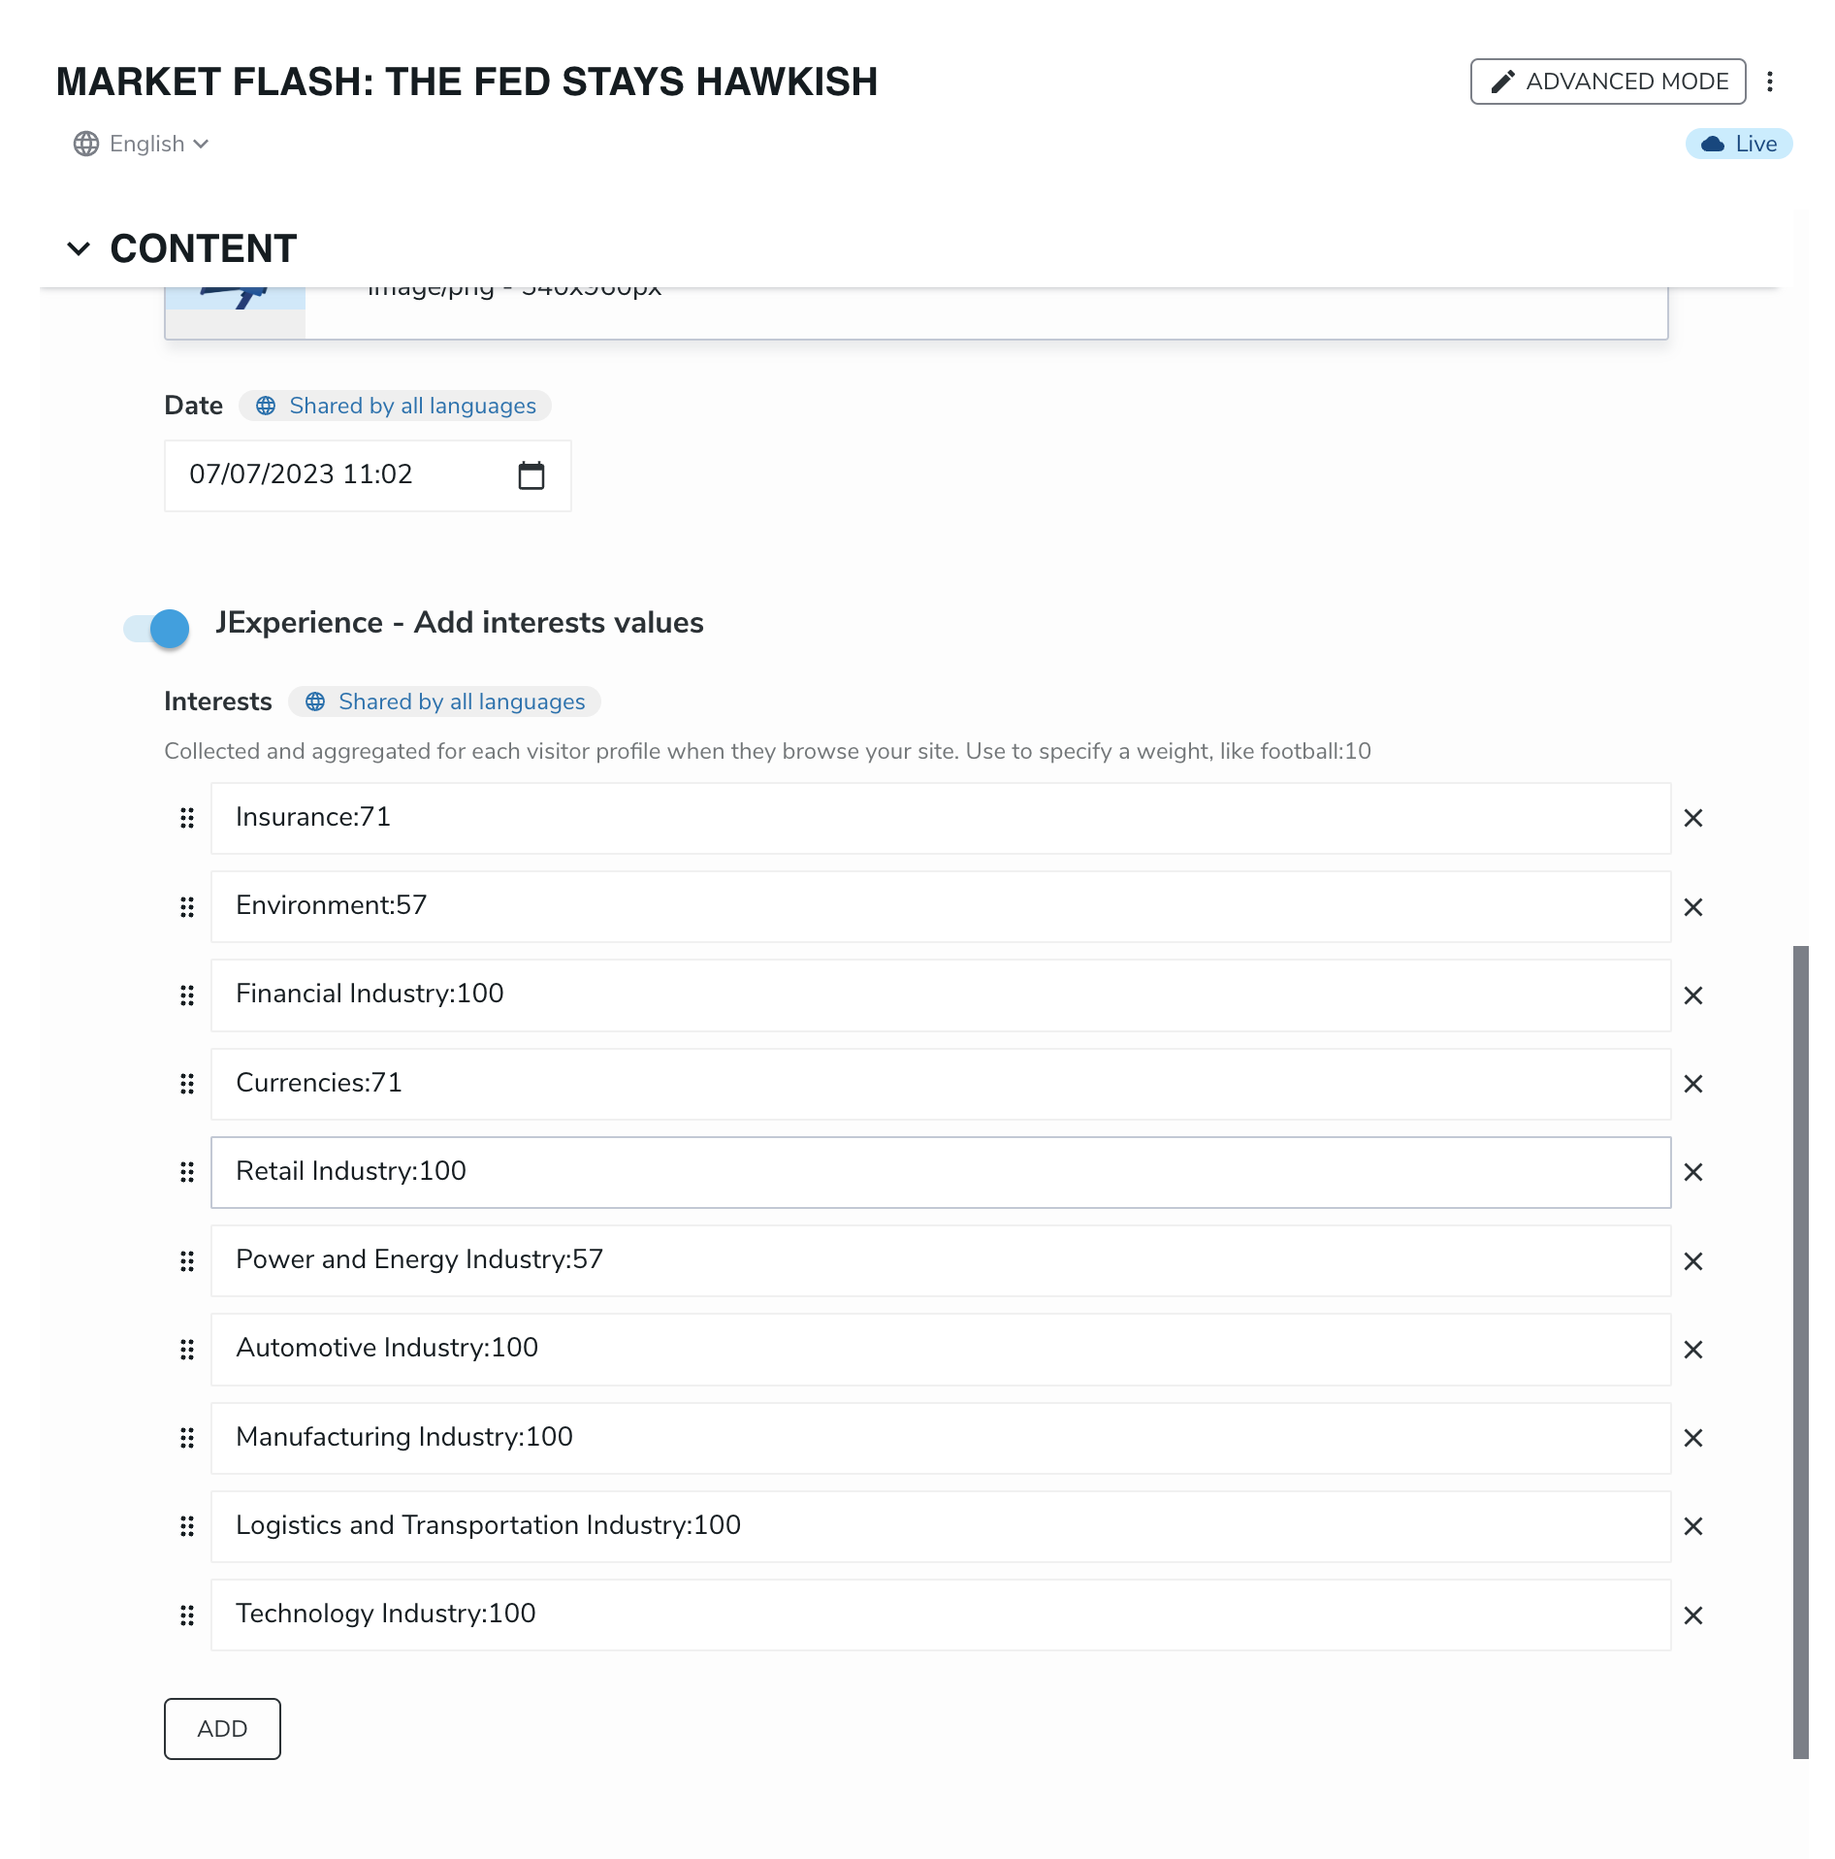
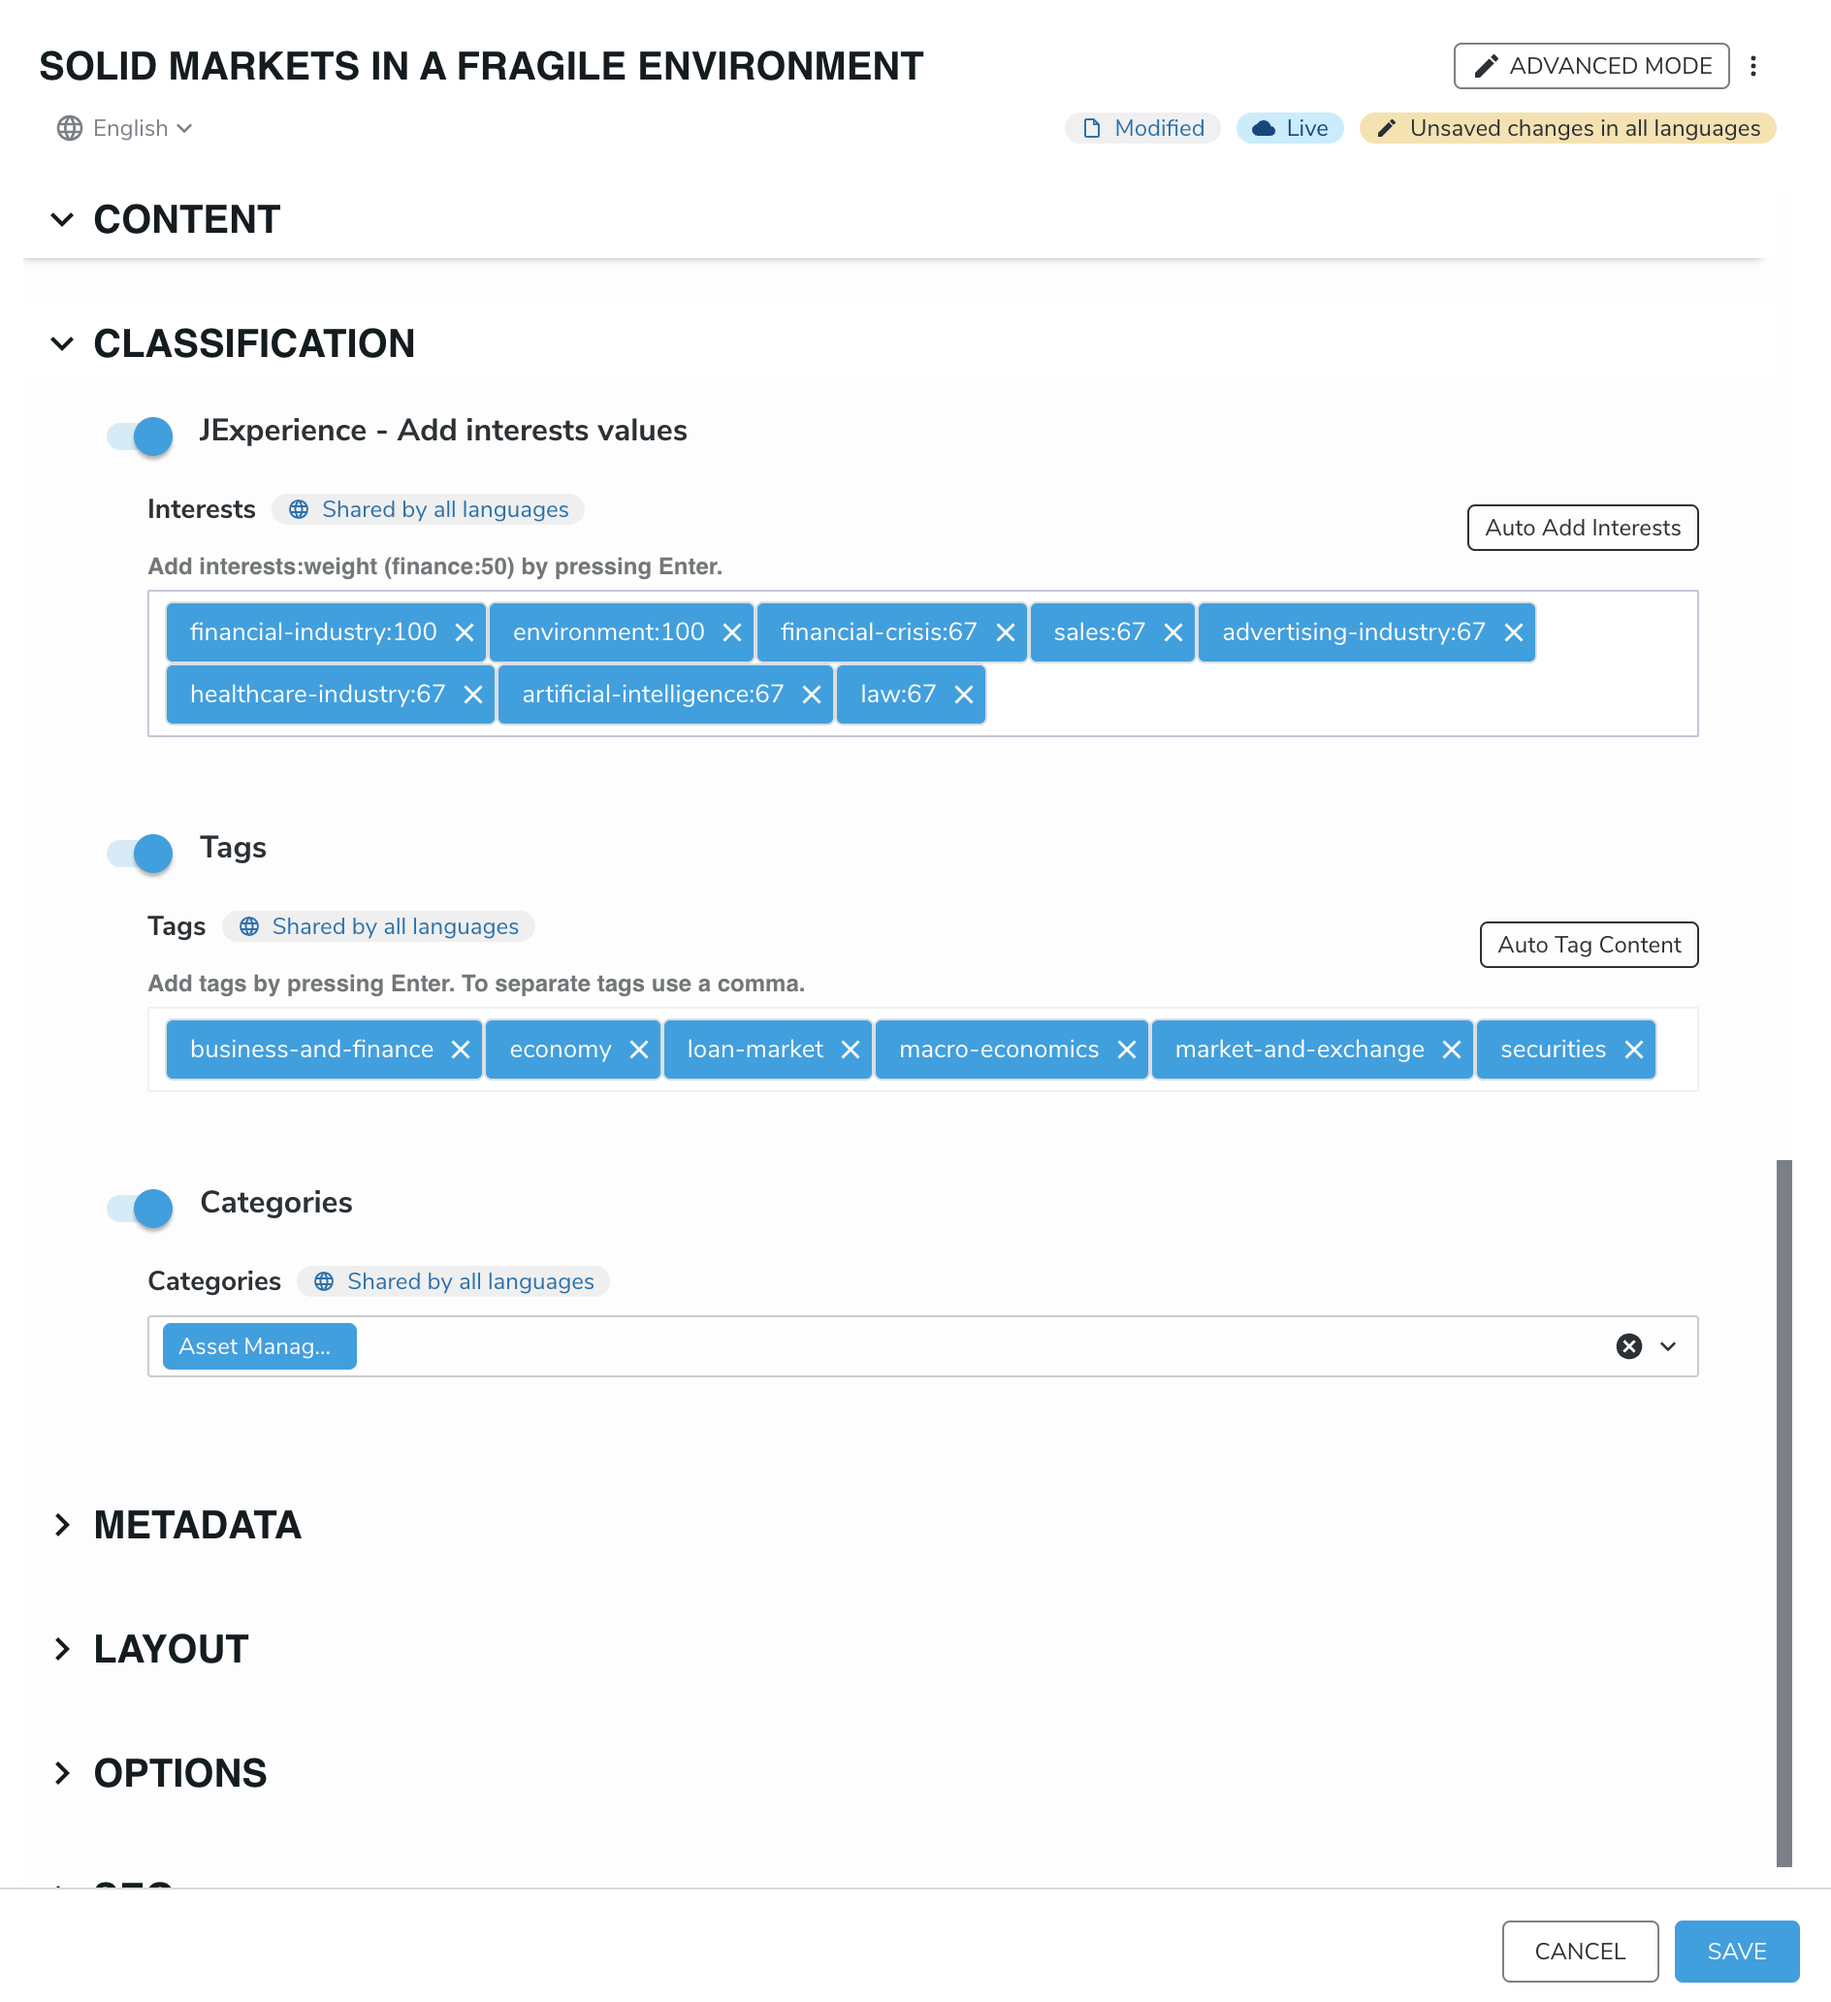
updated readme

diff --git a/README.md b/README.md
@@ -24,16 +24,21 @@ meaningCloud.classificationModel=IAB_2.0-tier4 (you can select a different model
 meaningCloud.namingConvention=IPTC_en (you can select a different model from the ones available : https://learn.meaningcloud.com/developer/text-classification/2.0/models)
 
 ## How to use
+### From the mouse right click menu on a content item
 - Right-click on a content of type jnt:page or jnt:content.
 - The Meaning Cloud Text Services menu should appear at the bottom, containing the following sub-items:
 	- Requesting Auto Tagging with Topic Extraction
     - Requesting Auto Tagging with Text Classification
 	- Requesting to Add Interests with Deep Categorisation
+-> The requested action is done at server side, and saved automatically for the selected content.
 
-### Screenshots
 ![picture](./src/main/resources/images/readme/meaningCloud01.png)
+
+### From the content editor
+- jExperience Interests has been relocated to the Classification Section
+- Buttons have been added to jExperience Interests and Tags to auto generate them based on MeaningCloud text analysis Services
+- By clicking, the service will returl the corresponding tags or interests, you'll have then the ability to alter, add or delete what's proposed. A final save action will validate all entries.
 
 ![picture](./src/main/resources/images/readme/meaningCloud02.png)
 
-![picture](./src/main/resources/images/readme/meaningCloud03.png)
 
